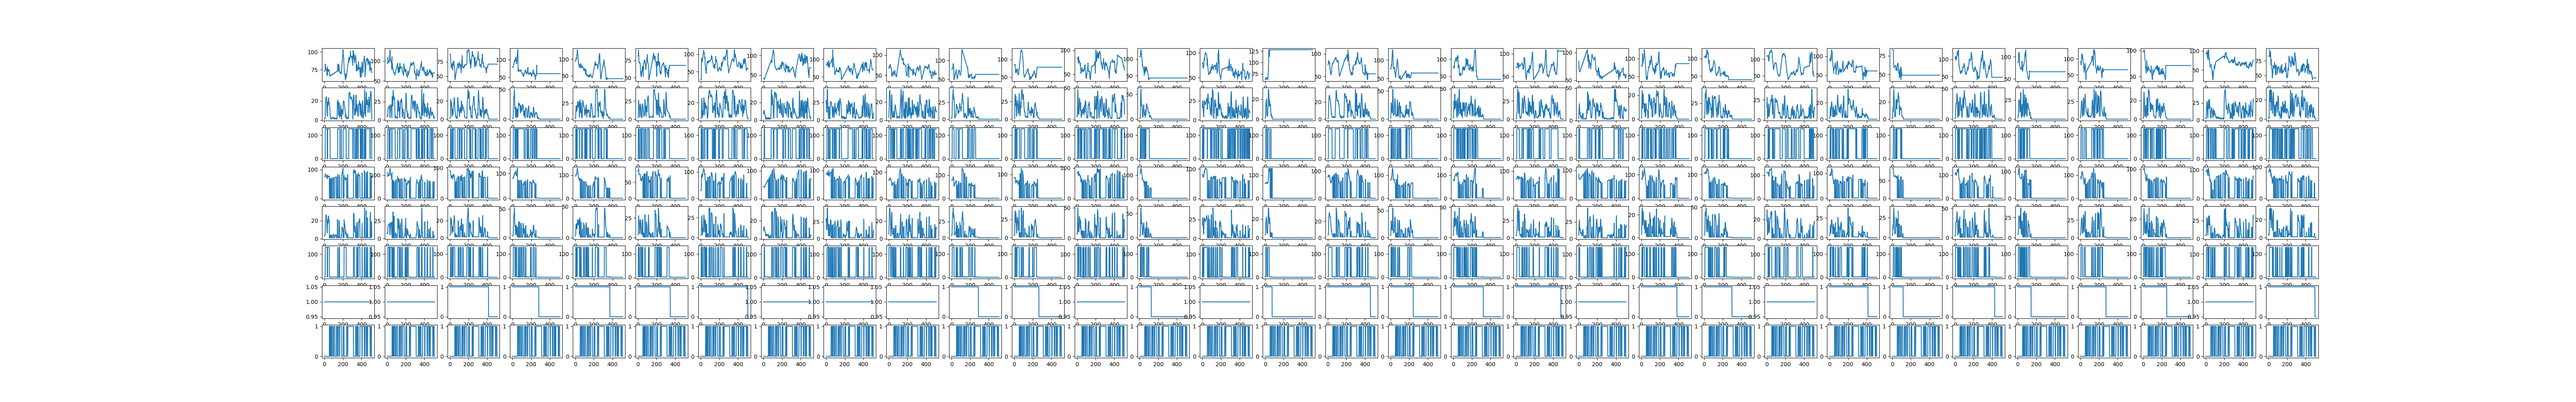
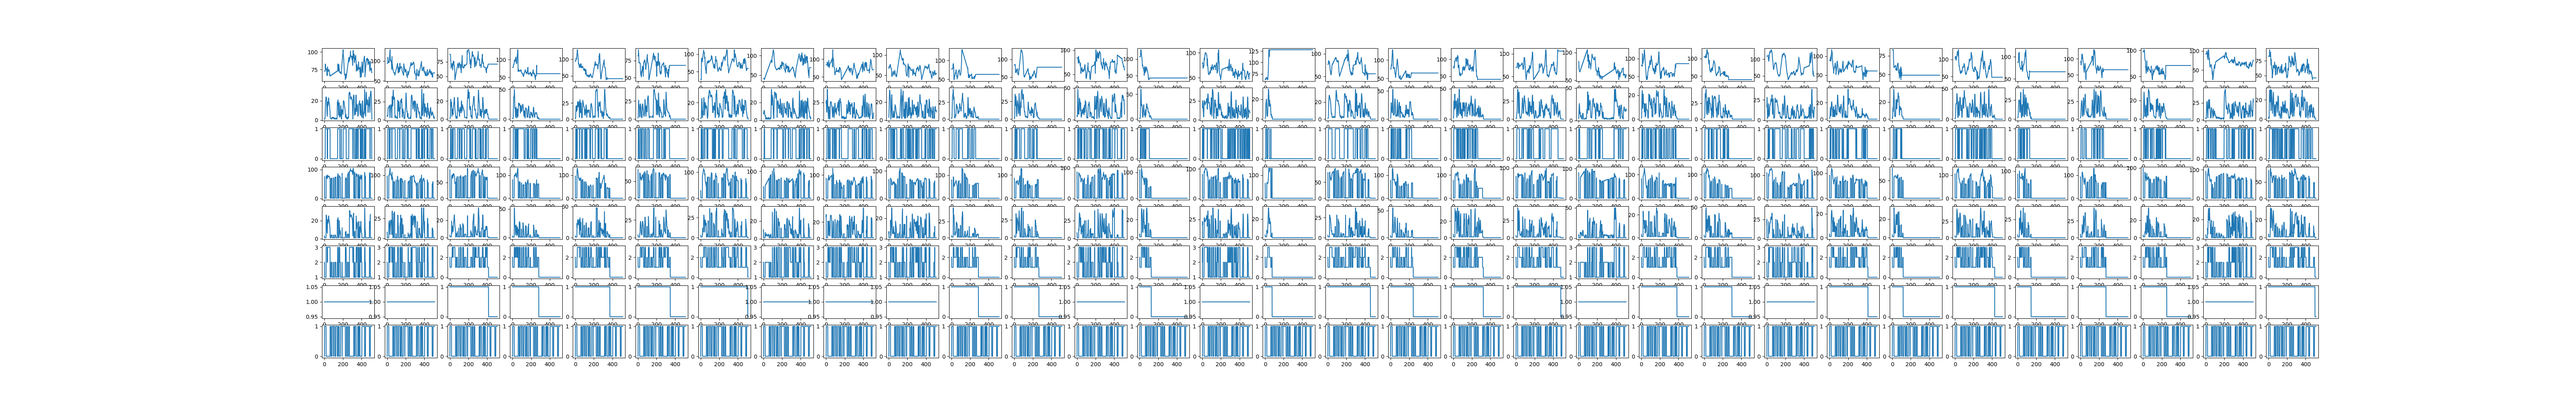
ready for multi-machine training

Changed region(s): [[0.125, 0.527, 0.9062, 0.713], [0.125, 0.806, 0.9062, 0.899], [0.125, 0.403, 0.9062, 0.496]]

diff --git a/scripts/train.py b/scripts/train.py
@@ -138,16 +138,20 @@ def train_epoch(epoch):
             ).transpose(0, 1)
             y = model(x)
             mask = batch["mask_pad"] * batch["mask_pred"]
-            pred_pitch = y[:, 0].permute(0, 2, 1)
-            pred_energy = y[:, 1].permute(0, 2, 1)
-            pred_vad = y[:, 2].permute(0, 2, 1)
-            pitch_loss = torch.nn.functional.cross_entropy(pred_pitch, batch["pitch"])
+            pred_pitch = y[0].permute(0, 2, 1)
+            pred_energy = y[1].permute(0, 2, 1)
+            pred_vad = y[2].permute(0, 2, 1)
+            pitch_loss = torch.nn.functional.cross_entropy(
+                pred_pitch, batch["pitch"]
+            ) / np.log(collator_args.bin_size)
             pitch_loss = pitch_loss * mask
             energy_loss = torch.nn.functional.cross_entropy(
                 pred_energy, batch["energy"]
-            )
+            ) / np.log(collator_args.bin_size)
             energy_loss = energy_loss * mask
-            vad_loss = torch.nn.functional.cross_entropy(pred_vad, batch["vad"])
+            vad_loss = torch.nn.functional.binary_cross_entropy_with_logits(
+                pred_vad, batch["vad"].float().unsqueeze(1)
+            ) / np.log(2)
             vad_loss = vad_loss * mask
             loss = (pitch_loss + energy_loss + vad_loss).mean()
             accelerator.backward(loss)
@@ -190,7 +194,6 @@ def train_epoch(epoch):
             return
         if (
             training_args.eval_every_n_steps is not None
-            and global_step > 0
             and global_step % training_args.eval_every_n_steps == 0
             and accelerator.is_main_process
         ):
@@ -236,16 +239,16 @@ def evaluate():
         y = model(x)
         mask = batch["mask_pad"] * batch["mask_pred"]
         pitch_loss = torch.nn.functional.cross_entropy(
-            y[:, 0].transpose(1, 2), batch["pitch"]
-        )
+            y[0].transpose(1, 2), batch["pitch"]
+        ) / np.log(collator_args.bin_size)
         pitch_loss = pitch_loss * mask
         energy_loss = torch.nn.functional.cross_entropy(
-            y[:, 1].transpose(1, 2), batch["energy"]
-        )
+            y[1].transpose(1, 2), batch["energy"]
+        ) / np.log(collator_args.bin_size)
         energy_loss = energy_loss * mask
-        vad_loss = torch.nn.functional.cross_entropy(
-            y[:, 2].transpose(1, 2), batch["vad"]
-        )
+        vad_loss = torch.nn.functional.binary_cross_entropy_with_logits(
+            y[2].transpose(1, 2), batch["vad"].unsqueeze(1).float()
+        ) / np.log(2)
         vad_loss = vad_loss * mask
         loss = (pitch_loss + energy_loss + vad_loss).mean()
         losses.append(loss.detach())
@@ -253,11 +256,11 @@ def evaluate():
         energy_losses.append(energy_loss.mean().detach())
         vad_losses.append(vad_loss.mean().detach())
         # undo bucketization (0 is padding, 1 is masking)
-        pitch_pred = y[:, 0].argmax(-1).float() / model_args.bins * mask
+        pitch_pred = y[0].argmax(-1).float() / model_args.bins * mask
         pitch_true = (batch["pitch"]).float() / model_args.bins * mask
-        energy_pred = y[:, 1].argmax(-1).float() / model_args.bins * mask
+        energy_pred = y[1].argmax(-1).float() / model_args.bins * mask
         energy_true = (batch["energy"]).float() / model_args.bins * mask
-        vad_pred = y[:, 2].argmax(-1).float() / model_args.bins * mask
+        vad_pred = y[2].argmax(-1).float() / model_args.bins * mask
         vad_true = (batch["vad"]).float() / model_args.bins * mask
         y_true_pitch.append(pitch_true)
         y_pred_pitch.append(pitch_pred)
@@ -368,6 +371,7 @@ def main():
     console_print(f"[green]process_index[/green]: {accelerator.process_index}")
 
     # model
+    seed_everything(training_args.seed)
     model_args.bins = collator_args.bin_size
     model_args.max_length = collator_args.max_length
     model = MaskedProsodyModel(model_args)

diff --git a/model/masked_prosody_model.py b/model/masked_prosody_model.py
@@ -27,7 +27,7 @@ class MaskedProsodyModel(nn.Module):
 
         self.pitch_embedding = nn.Embedding(bins + 2, args.filter_size)
         self.energy_embedding = nn.Embedding(bins + 2, args.filter_size)
-        self.vad_embedding = nn.Embedding(bins + 2, args.filter_size)
+        self.vad_embedding = nn.Embedding(2 + 2, args.filter_size)
 
         self.positional_encoding = PositionalEncoding(args.filter_size)
 
@@ -53,7 +53,7 @@ class MaskedProsodyModel(nn.Module):
         )
 
         self.output_vad = nn.Sequential(
-            nn.Linear(args.filter_size, bins),
+            nn.Linear(args.filter_size, 1),
         )
 
         self.apply(self._init_weights)
@@ -87,23 +87,19 @@ class MaskedProsodyModel(nn.Module):
         vad = self.output_vad(x)
         if return_layer is not None:
             return {
-                "y": torch.stack(
-                    [
-                        pitch,
-                        energy,
-                        vad,
-                    ]
-                ).transpose(0, 1),
-                "representations": reprs,
-            }
-        else:
-            return torch.stack(
-                [
+                "y": [
                     pitch,
                     energy,
                     vad,
-                ]
-            ).transpose(0, 1)
+                ],
+                "representations": reprs,
+            }
+        else:
+            return [
+                pitch,
+                energy,
+                vad,
+            ]
 
     def save_model(self, path, accelerator=None, onnx=False):
         path = Path(path)
@@ -149,6 +145,6 @@ class MaskedProsodyModel(nn.Module):
             [
                 torch.randint(0, self.args.bins, (1, self.args.max_length)),
                 torch.randint(0, self.args.bins, (1, self.args.max_length)),
-                torch.randint(0, self.args.bins, (1, self.args.max_length)),
+                torch.randint(0, 2, (1, self.args.max_length)),
             ]
         ).transpose(0, 1)

diff --git a/collators/default.py b/collators/default.py
@@ -144,7 +144,7 @@ class LibriTTSAlgoCollator:
         vad[inv_mask_vad] = 0
         pitch = torch.bucketize(pitch, self.bins)
         energy = torch.bucketize(energy, self.bins)
-        vad = torch.bucketize(vad, self.bins)
+        vad = torch.bucketize(vad, torch.linspace(0, 1, 2))
         result["pitch"] = pitch
         result["energy"] = energy
         result["vad"] = vad

diff --git a/configs/args.py b/configs/args.py
@@ -6,6 +6,7 @@ class TrainingArgs:
     lr: float = 1e-4
     lr_schedule: str = "linear_with_warmup"
     lr_warmup_steps: int = 1000
+    vad_loss_weight: float = 10.0
     gradient_clip_val: float = 1.0
     checkpoint_path: str = "checkpoints"
     output_path: str = "outputs"
